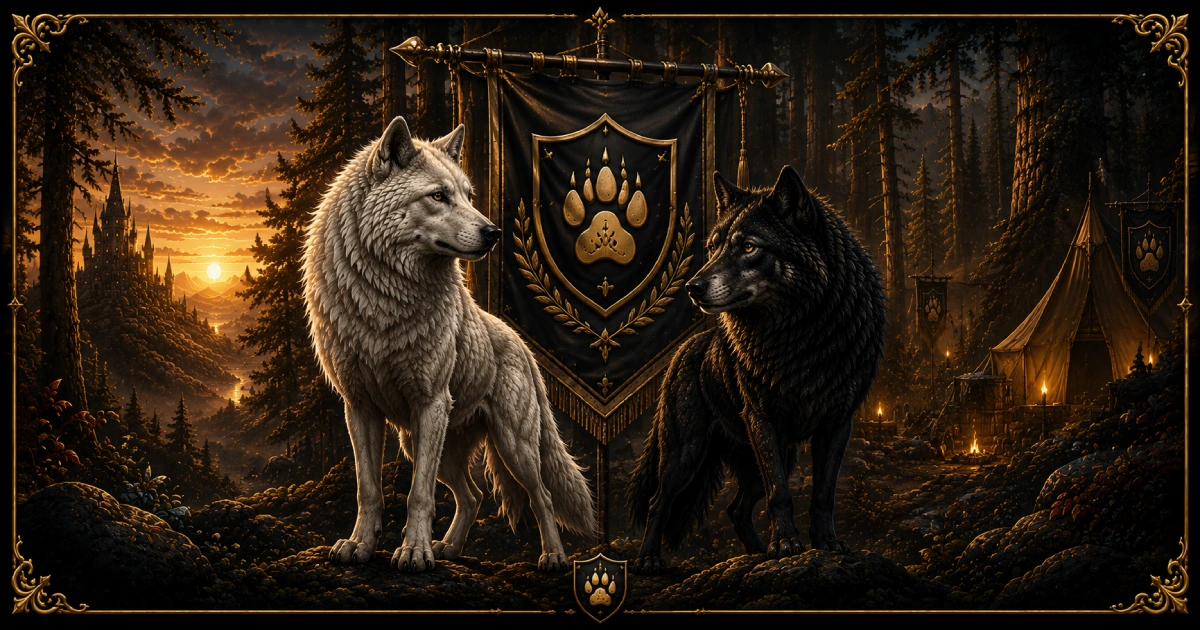
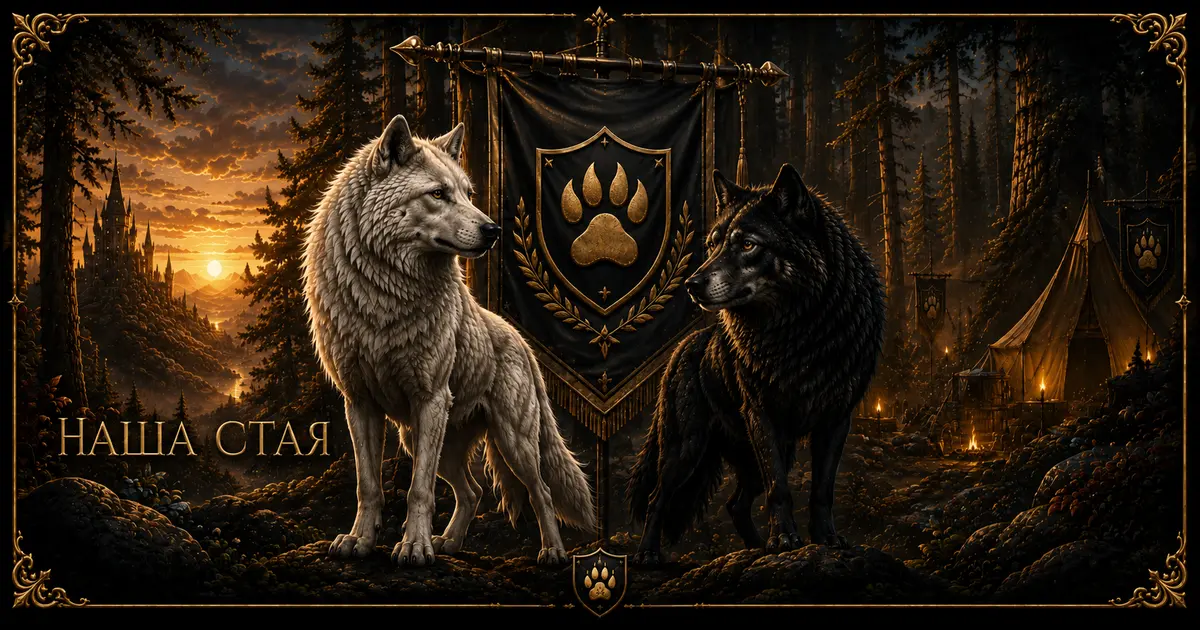
Add files via upload

diff --git a/src/app/members/page.module.css b/src/app/members/page.module.css
@@ -8,7 +8,7 @@
     url("/images/members/members-floral-bg.webp");
   background-position: top center;
   background-repeat: repeat-y;
-  background-size: min(1536px, 100vw) auto;
+  background-size: 100% auto;
 }
 
 .pageInner {
@@ -37,33 +37,16 @@
   position: absolute;
   z-index: -1;
   inset: 0;
-  background:
-    linear-gradient(90deg, rgba(3, 4, 4, 0.68) 0%, rgba(3, 4, 4, 0.16) 45%, transparent 73%),
-    linear-gradient(0deg, rgba(3, 4, 4, 0.58) 0%, transparent 42%);
+  background: linear-gradient(0deg, rgba(3, 4, 4, 0.62) 0%, transparent 35%);
   pointer-events: none;
 }
 
 .heroContent {
   position: absolute;
   left: clamp(28px, 4.2vw, 58px);
-  bottom: clamp(38px, 7vw, 82px);
+  bottom: clamp(24px, 3.2vw, 42px);
   max-width: min(540px, 68%);
   text-shadow: 0 3px 18px rgba(0, 0, 0, 0.95);
-}
-
-.heroContent h1 {
-  margin: 0;
-  line-height: 0;
-}
-
-.titleImage {
-  display: block;
-  width: clamp(260px, 28vw, 390px);
-  height: auto;
-  filter:
-    brightness(0.8)
-    saturate(0.72)
-    drop-shadow(0 2px 5px rgba(0, 0, 0, 0.96));
 }
 
 .srOnly {
@@ -79,7 +62,7 @@
 }
 
 .heroContent p {
-  margin: 14px 0 0;
+  margin: 0;
   color: #f0dfbf;
   font: 400 clamp(1.05rem, 2vw, 1.65rem) / 1.2 Georgia, "Times New Roman", serif;
 }
@@ -216,7 +199,7 @@
   display: grid;
   min-height: 160px;
   aspect-ratio: 3.16 / 1;
-  grid-template-columns: 20px minmax(0, 1fr) 82px 118px;
+  grid-template-columns: 20px minmax(0, 1fr) 70px 118px;
   align-items: center;
   gap: 14px;
   overflow: hidden;
@@ -251,10 +234,15 @@
 .memberIdentity h3 {
   overflow: hidden;
   margin: 0;
-  color: #edd397;
-  font: 400 clamp(1.3rem, 2.2vw, 1.68rem) / 1.1 Georgia, "Times New Roman", serif;
+  color: #eacb86;
+  background: linear-gradient(180deg, #fff0c0 0%, #e4bd70 48%, #9a602b 100%);
+  background-clip: text;
+  font: 500 clamp(1.3rem, 2.2vw, 1.68rem) / 1.1 "Palatino Linotype", "Book Antiqua", Palatino, Georgia, serif;
+  letter-spacing: 0.012em;
+  -webkit-background-clip: text;
+  -webkit-text-fill-color: transparent;
   text-overflow: ellipsis;
-  text-shadow: 0 2px 8px rgba(0, 0, 0, 0.9);
+  filter: drop-shadow(0 2px 2px rgba(0, 0, 0, 0.92));
   white-space: nowrap;
 }
 
@@ -271,8 +259,8 @@
 .levelShield {
   position: relative;
   display: grid;
-  width: 76px;
-  height: 98px;
+  width: 65px;
+  height: 83px;
   place-items: center;
   justify-self: center;
   color: #f2d393;
@@ -287,7 +275,7 @@
   position: relative;
   z-index: 1;
   margin-top: -5px;
-  font: 400 1.78rem / 1 "Palatino Linotype", "Book Antiqua", Palatino, Georgia, serif;
+  font: 400 1.55rem / 1 "Palatino Linotype", "Book Antiqua", Palatino, Georgia, serif;
   text-shadow: 0 1px 8px rgba(235, 166, 60, 0.34);
 }
 
@@ -310,16 +298,16 @@
 .profileLink {
   width: max-content;
   margin-top: 13px;
-  border-bottom: 1px solid rgba(183, 118, 33, 0.68);
-  color: #c99a52;
-  font: 400 0.84rem / 1.4 Georgia, "Times New Roman", serif;
+  border-bottom: 1px solid rgba(126, 77, 30, 0.74);
+  color: #9d6b35;
+  font: 400 0.82rem / 1.4 "Palatino Linotype", "Book Antiqua", Palatino, Georgia, serif;
   text-decoration: none;
   transition: color 160ms ease, border-color 160ms ease;
 }
 
 .profileLink:hover {
-  color: #f0c776;
-  border-color: #e0a84e;
+  color: #bd8848;
+  border-color: #a97032;
 }
 
 @media (max-width: 960px) {
@@ -338,14 +326,14 @@
   }
 
   .memberCard {
-    grid-template-columns: 20px minmax(0, 1fr) 82px 132px;
+    grid-template-columns: 20px minmax(0, 1fr) 70px 132px;
   }
 }
 
 @media (max-width: 700px) {
   .page {
     padding: 0 0 46px;
-    background-size: 1120px auto;
+    background-size: 100% auto;
   }
 
   .hero {
@@ -356,13 +344,12 @@
   }
 
   .heroImage {
-    object-position: 50% center;
+    object-fit: contain;
+    object-position: center top;
   }
 
   .heroShade {
-    background:
-      linear-gradient(0deg, rgba(3, 4, 4, 0.9) 0%, rgba(3, 4, 4, 0.3) 58%, transparent 86%),
-      linear-gradient(90deg, rgba(3, 4, 4, 0.38), transparent 72%);
+    background: linear-gradient(0deg, rgba(3, 4, 4, 0.94) 0%, rgba(3, 4, 4, 0.3) 38%, transparent 68%);
   }
 
   .heroContent {
@@ -372,16 +359,8 @@
     max-width: none;
   }
 
-  .heroContent h1 {
-    line-height: 0;
-  }
-
-  .titleImage {
-    width: min(310px, 88vw);
-  }
-
   .heroContent p {
-    margin-top: 10px;
+    margin-top: 0;
     font-size: 1.08rem;
   }
 
@@ -421,7 +400,7 @@
   .memberCard {
     min-height: 126px;
     aspect-ratio: auto;
-    grid-template-columns: 17px minmax(0, 1fr) 64px 92px;
+    grid-template-columns: 17px minmax(0, 1fr) 55px 92px;
     gap: 9px;
     padding: 18px 17px;
   }
@@ -442,12 +421,12 @@
   }
 
   .levelShield {
-    width: 60px;
-    height: 78px;
+    width: 51px;
+    height: 66px;
   }
 
   .levelShield span {
-    font-size: 1.42rem;
+    font-size: 1.25rem;
   }
 
   .memberMeta {
@@ -470,7 +449,7 @@
   }
 
   .memberCard {
-    grid-template-columns: 15px minmax(0, 1fr) 60px;
+    grid-template-columns: 15px minmax(0, 1fr) 55px;
     padding: 14px 12px;
   }
 

diff --git a/src/app/members/page.tsx b/src/app/members/page.tsx
@@ -147,16 +147,7 @@ export default function MembersPage() {
           <div className={styles.heroShade} />
 
           <div className={styles.heroContent}>
-            <h1 id="members-title">
-              <Image
-                src="/images/members/members-title.png"
-                alt=""
-                width={760}
-                height={95}
-                className={styles.titleImage}
-              />
-              <span className={styles.srOnly}>Наша стая</span>
-            </h1>
+            <h1 id="members-title" className={styles.srOnly}>Наша стая</h1>
             <p>
               {clan.name} <span aria-hidden="true">·</span> {wolvesLabel}
             </p>
